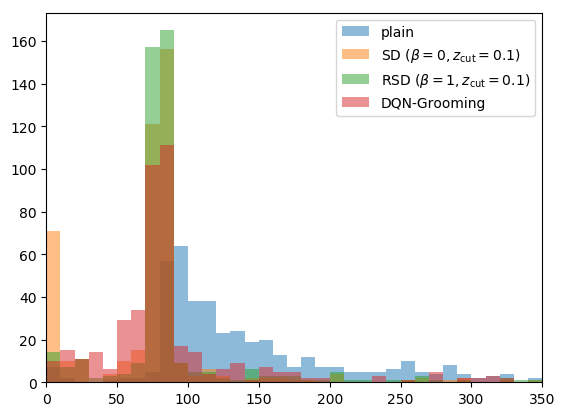
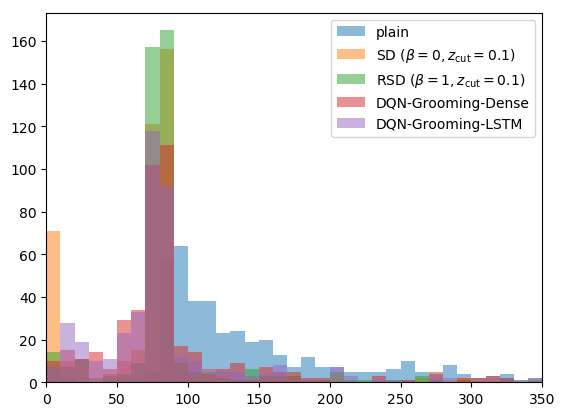
added results w/ lstm network

diff --git a/python/MLGroomer.py b/python/MLGroomer.py
@@ -11,23 +11,34 @@ from keras.optimizers import Adam
 
 import os
 
+def model_construct(hps):
+    """Construct a neural network to use with the DQN agent."""
+    model = Sequential()
+    if hps['architecture']=='Dense':
+        model.add(Flatten(input_shape=(1,) + hps['input_dim']))
+        model.add(Dense(50))
+        model.add(Activation('relu'))
+        model.add(Dense(100))
+        model.add(Activation('relu'))
+        model.add(Dense(50))
+        model.add(Activation('relu'))
+        model.add(Dense(hps['nb_actions']))
+        model.add(Activation('linear'))
+    elif hps['architecture']=='LSTM':
+        model.add(LSTM(64, input_shape = (1,max(hps['input_dim']))))
+        model.add(Dropout(0.1))
+        model.add(Dense(hps['nb_actions']))
+        model.add(Activation('linear'))
+    print(model.summary())
+    return model
+    
 # construct a DQN network to be used on lund input
 # https://github.com/keras-rl/keras-rl/blob/master/examples/dqn_atari.py
-def dqn_construct(hps, env):
+def dqn_construct(hps):
     """Create a DQN agent with a simple model using dense layers."""
-    # we build a very simple model consisting of 4 dense layers
-    model = Sequential()
-    model.add(Flatten(input_shape=(1,) + hps['input_dim']))
-    model.add(Dense(50))
-    model.add(Activation('relu'))
-    model.add(Dense(100))
-    model.add(Activation('relu'))
-    model.add(Dense(50))
-    model.add(Activation('relu'))
-    model.add(Dense(hps['nb_actions']))
-    model.add(Activation('linear'))
-    print(model.summary())
-
+    # we build a very simple model consisting of 4 dense layers or LSTM
+    model = model_construct(hps)
+    
     # set up the DQN agent
     memory = SequentialMemory(limit=100000, window_length=1)
     policy = BoltzmannQPolicy()
@@ -38,7 +49,8 @@ def dqn_construct(hps, env):
     
     return agent
 
-def run_model(fn = '../constit-long.json.gz', nev=400000, outfn=None):
+def run_model(network='Dense', fn = '../constit-long.json.gz',
+              nev=400000, outfn=None):
     """Run a test model"""
 
     # set up environment
@@ -50,12 +62,13 @@ def run_model(fn = '../constit-long.json.gz', nev=400000, outfn=None):
     dqn_hps = {
         'input_dim': env.observation_space.shape,
         'nb_actions': 2,
+        'architecture': network,
         'description': 'test model',
-        'model_name': 'DQN_Test_Model'
+        'model_name': 'DQN_Test_Model_%s' % network
     }
 
     print('Constructing DQN agent...')
-    dqn = dqn_construct(dqn_hps, env)
+    dqn = dqn_construct(dqn_hps)
 
     print('Fitting DQN agent...')
     dqn.fit(env, nb_steps=500000, visualize=False, verbose=1)
@@ -67,10 +80,11 @@ def run_model(fn = '../constit-long.json.gz', nev=400000, outfn=None):
     return dqn
     
 if __name__ == "__main__":
+    network='Dense'
     # create the DQN agent and train it.
-    dqn = run_model()
+    dqn = run_model(network=network)
 
-    fnres = 'test.pickle'
+    fnres = 'test_%s.pickle' % network
     # create an environment for the test sample
     env = GroomEnv('../constit.json.gz', 500, outfn=fnres, low=np.array([0.0, -6.0]),
                    high=np.array([10.0, 8.0]), mass=80.385,

diff --git a/python/test.py b/python/test.py
@@ -27,14 +27,18 @@ for ev in events:
         mrsd.append(rsdev[0][0].m())
 
 # now read the DQN masses
-with open('test.pickle','rb') as rfp:
+with open('test_Dense.pickle','rb') as rfp:
     mdqn = pickle.load(rfp)
+
+with open('test_LSTM.pickle','rb') as rfp:
+    mdqnLSTM = pickle.load(rfp)
     
 bins = np.arange(0, 401, 10)
 plt.hist(mplain, bins=bins, alpha=0.5, label='plain')
 plt.hist(msd, bins=bins, alpha=0.5, label='SD $(\\beta=0,z_\\mathrm{cut}=0.1)$')
 plt.hist(mrsd, bins=bins, alpha=0.5, label='RSD $(\\beta=1,z_\\mathrm{cut}=0.1)$')
-plt.hist(mdqn, bins=bins, alpha=0.5, label='DQN-Grooming')
+plt.hist(mdqn, bins=bins, alpha=0.5, label='DQN-Grooming-Dense')
+plt.hist(mdqnLSTM, bins=bins, alpha=0.5, label='DQN-Grooming-LSTM')
 plt.xlim((0,350))
 plt.legend()
 plt.savefig('test.png',bbox_inches='tight')
